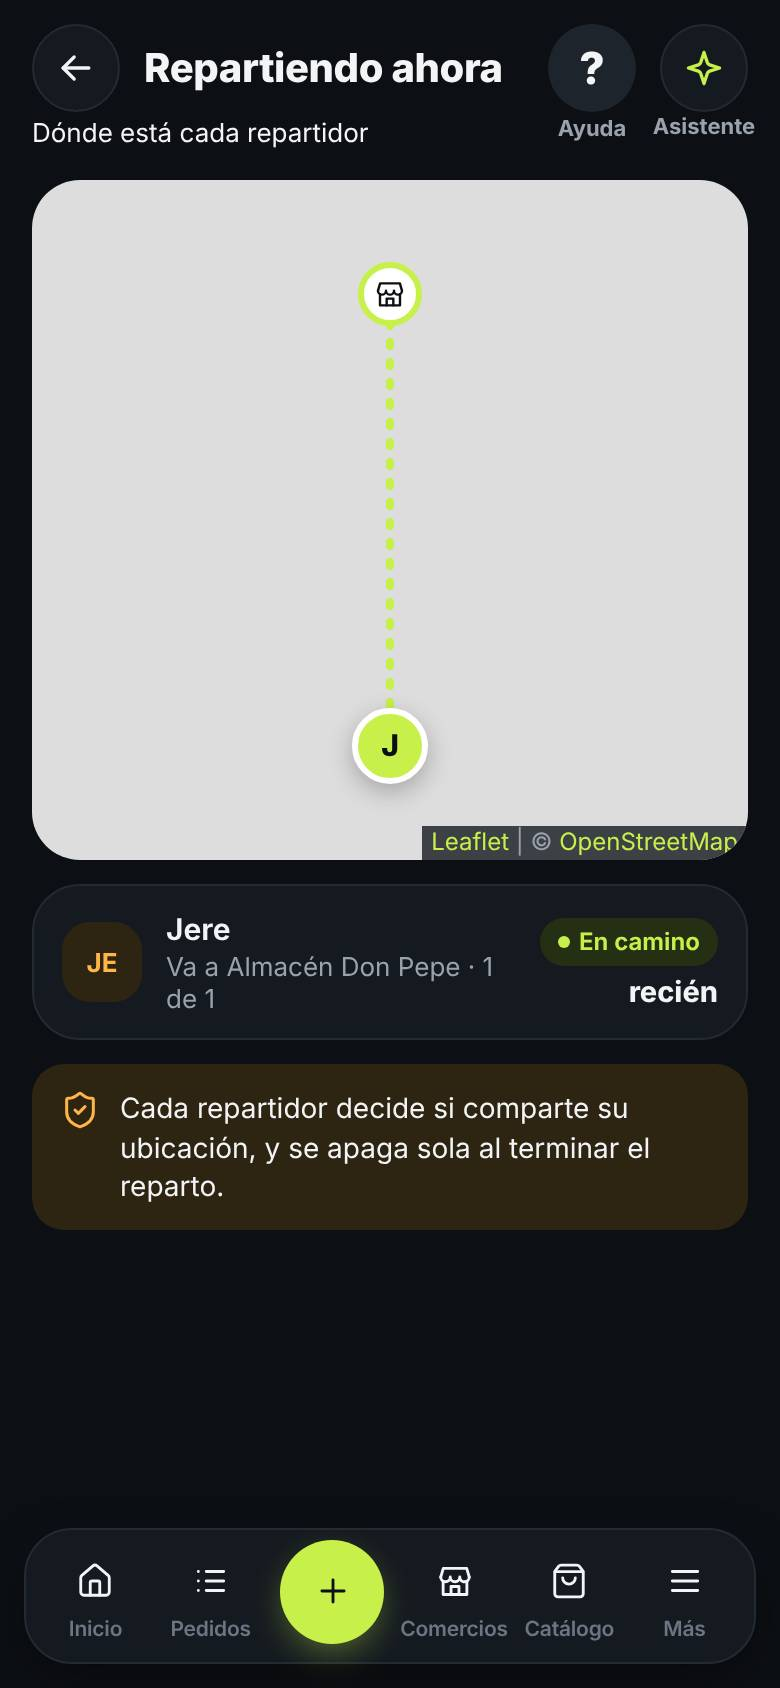
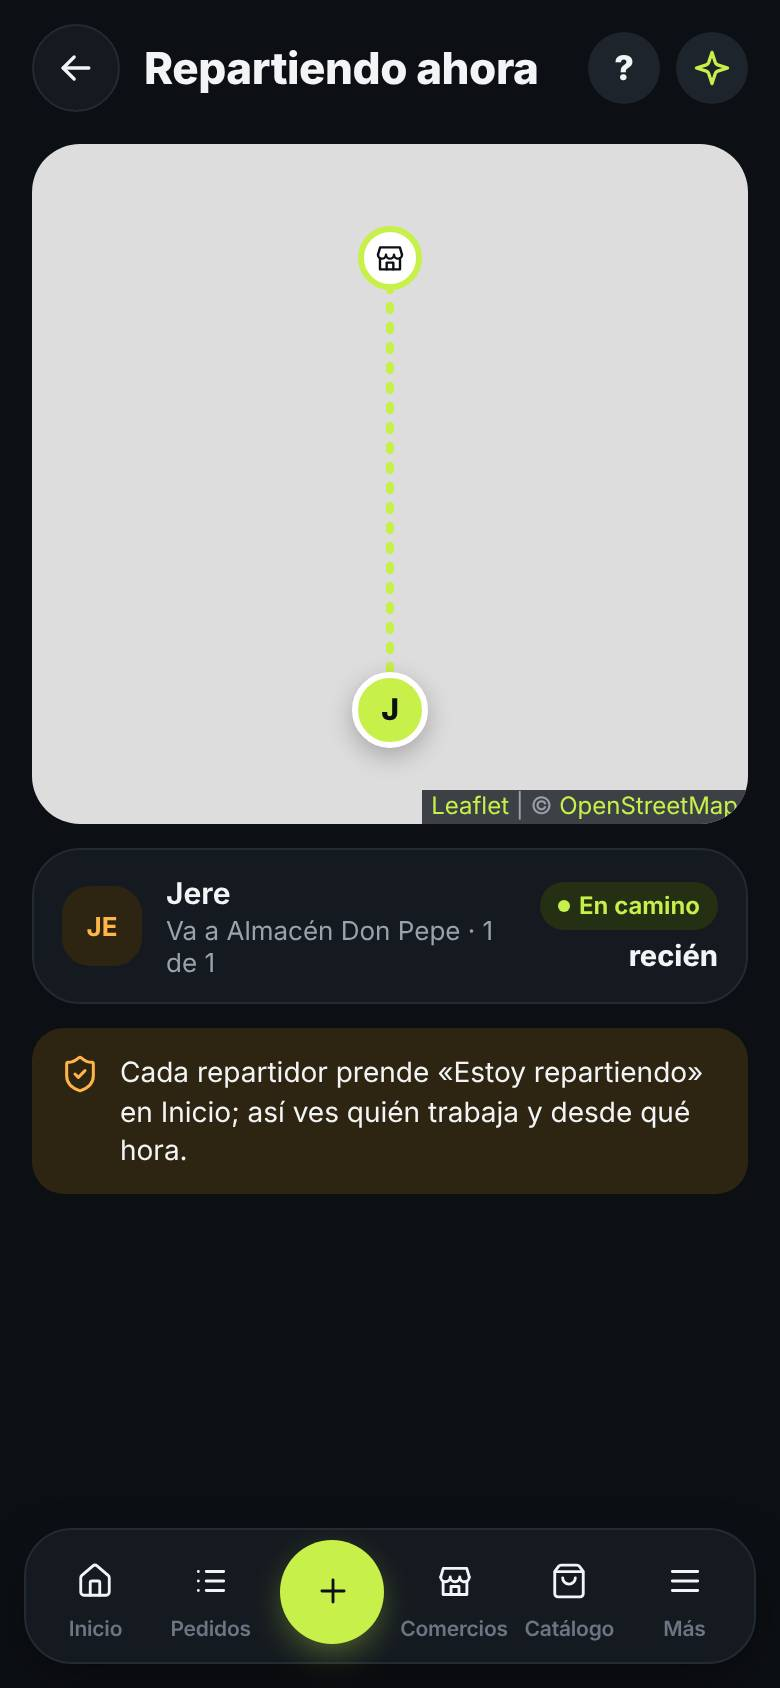
Inicio: switch Repartiendo y Cobrado hoy grande
Claude-Session: https://claude.ai/code/session_01VMQLWfXSbFLZnNSF5hPun1

Changed region(s): [[0.0308, 0.0308, 0.9846, 0.7393]]

diff --git a/repartidores.js b/repartidores.js
@@ -1,6 +1,6 @@
 // VendeFrío - Repartidores en el mapa (T73).
-// Cada repartidor decide si comparte su ubicación (aviso en Inicio cuando
-// tiene pedidos En reparto) y se apaga sola al terminar el reparto. El dueño
+// Cada repartidor prende el switch "Estoy repartiendo" arriba en Inicio
+// (Iniciar ruta lo prende solo) y lo apaga a mano o al cerrar la ruta. El dueño
 // ve "Repartiendo ahora": el mapa con cada uno, a dónde va y hace cuánto.
 // En la nube: `ubicaciones/{idPersona}` (solo el dueño las lee).
 (function () {
@@ -9,7 +9,6 @@
     const p = window.piezas;
     const extras = window.extrasVendeFrio;
     const CLAVE = "vendefrio_compartiendo_ubicacion";
-    const CLAVE_NO = "vendefrio_ubicacion_no_hoy";
     const VIGENTE = 20 * 60000;
     const MAXIMO = 12 * 3600000;
 
@@ -69,11 +68,6 @@
         const yo = p.persona();
         if (!yo || !p.refNube()) return;
         const reparto = miReparto();
-        // Se apaga sola: sin pedidos En reparto, terminó el reparto.
-        if (!reparto.enReparto.length) {
-            apagar(true);
-            return;
-        }
         const lat = posicion.coords.latitude, lng = posicion.coords.longitude;
         const movido = window.pruebaEntregaVendeFrio
             ? window.pruebaEntregaVendeFrio.distanciaMetros(lat, lng, ultimaEscritura.lat, ultimaEscritura.lng) : 999;
@@ -90,6 +84,7 @@
             precision: Math.round(Number(posicion.coords.accuracy) || 0),
             destino: destino ? String(destino.nombre || "").slice(0, 120) : "",
             paso,
+            desde: Number((p.lsLeer(CLAVE, null) || {}).desde) || Date.now(),
             hechas: reparto.hechas,
             total: reparto.total,
             horaCelular: Date.now()
@@ -103,7 +98,8 @@
         }, { enableHighAccuracy: true, maximumAge: 15000, timeout: 30000 });
     }
 
-    function activar() {
+    function activar(silencio) {
+        if (compartiendo()) { dibujarAvisos(); return; }
         if (!navigator.geolocation) {
             mostrarToast("Este celular no da la ubicación");
             return;
@@ -111,18 +107,20 @@
         p.lsGuardar(CLAVE, { desde: Date.now() });
         ultimaEscritura = { hora: 0, lat: 0, lng: 0 };
         vigilar();
-        mostrarToast("Compartiendo tu ubicación con el dueño");
+        try { window.appAndroidVendeFrio?.repartiendo?.(true); } catch (error) { console.warn(error); }
+        if (!silencio) mostrarToast("Estás repartiendo: compartís tu ubicación");
         dibujarAvisos();
     }
 
     function apagar(solo) {
         if (vigilancia !== null && navigator.geolocation) navigator.geolocation.clearWatch(vigilancia);
         vigilancia = null;
+        try { window.appAndroidVendeFrio?.repartiendo?.(false); } catch (error) { console.warn(error); }
         const estaba = compartiendo();
         try { localStorage.removeItem(CLAVE); } catch (error) { /* sin espacio */ }
         const yo = p.persona();
         if (yo && p.refNube()) extras.borrar("ubicaciones", yo.idPersona);
-        if (estaba) mostrarToast(solo ? "Terminaste el reparto: dejaste de compartir tu ubicación" : "Dejaste de compartir tu ubicación");
+        if (estaba) mostrarToast(solo ? "Terminaste el reparto: dejaste de compartir tu ubicación" : "Dejaste de repartir");
         dibujarAvisos();
     }
 
@@ -146,7 +144,7 @@
         if (!main.querySelector("#mapaRepartidores")) {
             main.innerHTML = `<div id="mapaRepartidores" class="pzMapa" role="img" aria-label="Mapa con los repartidores"></div>
                 <div class="pzTarjeta pzLista" id="listaRepartidores"></div>
-                <div class="pzNota pzNotaAviso">${p.ico("escudo", 20)}<span>Cada repartidor decide si comparte su ubicación, y se apaga sola al terminar el reparto.</span></div>`;
+                <div class="pzNota pzNotaAviso">${p.ico("escudo", 20)}<span>Cada repartidor prende «Estoy repartiendo» en Inicio; así ves quién trabaja y desde qué hora.</span></div>`;
         }
         p.mostrar(seccion);
         dibujarPantalla();
@@ -233,33 +231,39 @@
             etiqueta: "Ver mapa de quién reparte"
         } : null, "arriba");
 
-        // El repartidor: compartir mientras tiene pedidos En reparto.
-        const reparto = miReparto();
-        if (compartiendo()) {
-            vigilar();
-            p.avisoInicio("avisoCompartirUbicacion", {
-                color: "Ok",
-                icono: "ubicacion",
-                titulo: "Compartiendo tu ubicación",
-                texto: "Se apaga sola al terminar el reparto",
-                boton: "Apagar",
-                claseBoton: "pzBtnSec",
-                alTocar: () => apagar(false)
-            }, "arriba");
-            if (!reparto.enReparto.length) apagar(true);
-            return;
-        }
-        const noHoy = p.lsLeer(CLAVE_NO, 0) >= hoy();
+        // El repartidor: el switch "Estoy repartiendo" arriba en Inicio.
+        p.avisoInicio("avisoCompartirUbicacion", null);
+        dibujarSwitch();
+    }
+
+    // Switch fijo arriba en Inicio: prendido comparte la ubicación (y en
+    // Android muestra la notificación fija de reparto); apagado corta todo.
+    function dibujarSwitch() {
+        const contenedor = document.querySelector("#pantallaMenu .dashboardHeaderTop");
+        let fila = document.getElementById("switchRepartiendo");
         const puedeRepartir = !window.empleadosVendeFrio?.puede || window.empleadosVendeFrio.puede("reparte");
-        p.avisoInicio("avisoCompartirUbicacion", reparto.enReparto.length && !noHoy && puedeRepartir ? {
-            color: "Info",
-            icono: "ubicacion",
-            titulo: "¿Compartís tu ubicación?",
-            texto: "Así el dueño ve dónde va el reparto",
-            boton: "Activar",
-            alTocar: activar,
-            etiqueta: "Activar: compartir mi ubicación"
-        } : null, "arriba");
+        if (!contenedor || !puedeRepartir) { fila?.remove(); return; }
+        if (!fila) {
+            fila = document.createElement("label");
+            fila.id = "switchRepartiendo";
+            fila.className = "switchRepartiendo";
+            fila.innerHTML = `<span>Repartiendo<small></small></span>` +
+                `<input type="checkbox" class="ajLlave" role="switch" aria-label="Estoy repartiendo">`;
+            fila.querySelector("input").addEventListener("change", evento => {
+                if (evento.target.checked) activar(); else apagar(false);
+            });
+        }
+        // Va debajo del nombre de la distribuidora, en lugar del saludo.
+        const nombre = contenedor.querySelector(".inicioDistribuidora");
+        if (fila.previousElementSibling !== nombre) nombre.after(fila);
+        const prendido = compartiendo();
+        if (prendido) vigilar();
+        fila.querySelector("input").checked = prendido;
+        fila.classList.toggle("prendido", prendido);
+        const datos = p.lsLeer(CLAVE, null);
+        fila.querySelector("small").textContent = prendido
+            ? "desde las " + new Date(datos.desde).toLocaleTimeString("es-AR", { hour: "2-digit", minute: "2-digit" })
+            : "apagado";
     }
 
     if (typeof window.actualizarDashboard === "function") {

diff --git a/menu.js b/menu.js
@@ -274,8 +274,7 @@ function dibujarKpisInicio(cuentas, nube, conPlata) {
             { id: "cargados", texto: "Cargados", valor: cuentas.cargadosSemana, accion: "cargadosSemana" },
             { id: "entregados", texto: "Entregados", valor: cuentas.entregadosSemana, accion: "entregadosSemana" }
         ];
-        const cobrado = conPlata && window.cierreVendeFrio?.disponible?.() ? cobradoHoyInicio() : null;
-        if (cobrado !== null) kpis.push({ id: "cobradoHoy", texto: "Cobrado hoy", valor: textoPlataCortoInicio(cobrado), accion: "cobradoHoy" });
+        // "Cobrado hoy" va grande arriba, no en un cuadrito.
         kpis.push(
             { id: "cargadosHoy", texto: "Cargados hoy", valor: cuentas.cargadosHoy.length, accion: "cargadosHoy" },
             { id: "entregadosHoy", texto: "Entregados hoy", valor: cuentas.entregadosHoy, accion: "entregadosHoy" },
@@ -672,12 +671,15 @@ function actualizarDashboard() {
     // T93: sin permiso para ver la plata, unidades en vez de pesos.
     const vePlata = window.verPlataVendeFrio?.puedoVer?.() !== false;
     const conPlata = vePlata && (hayPrecios || nube);
+    // Lo grande es "Cobrado hoy": un pedido cargado todavía no es plata.
+    // Lo vendido queda chico debajo.
+    const cobradoGrande = conPlata && window.cierreVendeFrio?.disponible?.() ? cobradoHoyInicio() : null;
     const textos = {
-        dashTituloHoy: conPlata ? "Vendido hoy" : "Unidades hoy",
-        dashVendidoHoy: conPlata
+        dashTituloHoy: cobradoGrande !== null ? "Cobrado hoy" : conPlata ? "Vendido hoy" : "Unidades hoy",
+        dashVendidoHoy: cobradoGrande !== null ? textoPlataInicio(cobradoGrande) : conPlata
             ? textoPlataInicio(vendido)
             : String(cargadosHoy.reduce((total, pedido) => total + unidadesInicio(pedido), 0)) + " u",
-        dashResumenHoy: cargadosHoy.length + (cargadosHoy.length === 1 ? " pedido" : " pedidos") + " · " +
+        dashResumenHoy: (cobradoGrande !== null ? "Vendido " + textoPlataCortoInicio(vendido) + " · " : "") + cargadosHoy.length + (cargadosHoy.length === 1 ? " pedido" : " pedidos") + " · " +
             comerciosHoy + (comerciosHoy === 1 ? " comercio" : " comercios"),
         dashVisitasHechas: visitadosSemana,
         dashVisitasTotal: "de " + comercios.length,
@@ -1025,7 +1027,7 @@ function prepararTarjetasDashboard() {
     // comercios visitados" a la lista de los visitados.
     const tocable = window.piezas && window.piezas.tocable;
     if (!tocable) return;
-    tocable(document.getElementById("dashHoyVendido"), () => ejecutarAccionTarjetaDashboard("vendidoHoy"));
+    tocable(document.getElementById("dashHoyVendido"), () => ejecutarAccionTarjetaDashboard(document.getElementById("dashTituloHoy")?.textContent === "Cobrado hoy" ? "cobradoHoy" : "vendidoHoy"));
     tocable(document.getElementById("dashSemanaVisitados"), () => ejecutarAccionTarjetaDashboard("visitadosSemana"));
     // La barra dice "Visitados", así que lleva a los visitados; "Te deben", a A cobrar.
     document.getElementById("dashVisitas")?.addEventListener("click", () => ejecutarAccionTarjetaDashboard("visitadosSemana"));

diff --git a/pruebas/reparto.prueba.js b/pruebas/reparto.prueba.js
@@ -108,7 +108,7 @@ test("reparto: ya llego por WhatsApp y repartidores en el mapa", async ({ page }
     await parada.evaluate(el => el.scrollIntoView({ block: "center" }));
     await capturar(page, "reparto-04-ya-llego");
 
-    // Un pedido En reparto: el aviso para compartir la ubicación.
+    // Un pedido En reparto: el switch "Estoy repartiendo" arriba en Inicio.
     await cargarPedido(page, false);
     const ficha = await abrirPedido(page);
     await ficha.getByRole("button", { name: "Más opciones" }).click();
@@ -117,10 +117,13 @@ test("reparto: ya llego por WhatsApp y repartidores en el mapa", async ({ page }
     await ficha.getByRole("button", { name: "Cerrar", exact: true }).click();
     await expect(ficha).toBeHidden();
     await page.locator(".bottom-nav").getByRole("button", { name: "Inicio" }).click();
-    const compartir = page.locator("#avisoCompartirUbicacion");
-    await expect(compartir).toContainText("¿Compartís tu ubicación?");
-    await compartir.getByRole("button", { name: "Activar: compartir mi ubicación" }).click();
-    await expect(compartir).toContainText("Compartiendo tu ubicación");
+    const compartir = page.locator("#switchRepartiendo");
+    const llave = compartir.getByRole("switch", { name: "Estoy repartiendo" });
+    await expect(llave).not.toBeChecked();
+    await capturar(page, "inicio-switch-apagado");
+    await llave.check();
+    await expect(llave).toBeChecked();
+    await capturar(page, "inicio-switch-prendido");
 
     // El dueño (acá, el mismo) ve "Repartiendo ahora".
     const aviso = page.locator("#avisoRepartiendo");
@@ -134,12 +137,15 @@ test("reparto: ya llego por WhatsApp y repartidores en el mapa", async ({ page }
     await expect(pantalla.locator(".pinRepartidorCabeza")).toHaveCount(1);
     await capturar(page, "reparto-05-repartiendo-ahora");
 
-    // Al entregar el último, se apaga sola.
+    // Al entregar el último sigue prendido: se apaga a mano con el switch.
     await page.evaluate(() => {
         const pedido = obtenerHistorial().find(p => p.comercio === "Almacén Don Pepe");
         window.nubeVendeFrio.entregarPedido(pedido.id, {});
         actualizarDashboard();
     });
-    await expect(page.locator("#avisoCompartirUbicacion")).toHaveCount(0);
+    await expect.poll(() => page.evaluate(() => window.repartidoresVendeFrio.compartiendo())).toBe(true);
+    await pantalla.getByRole("button", { name: /Volver|Atrás/ }).first().click().catch(() => page.goBack());
+    await page.locator(".bottom-nav").getByRole("button", { name: "Inicio" }).click();
+    await page.locator("#switchRepartiendo").getByRole("switch").uncheck();
     await expect.poll(() => page.evaluate(() => window.repartidoresVendeFrio.compartiendo())).toBe(false);
 });

diff --git a/styles.css b/styles.css
@@ -2519,3 +2519,10 @@ html[data-tema] .inicioContenido .inicioEncabezado h2{margin:0;font-size:22px;}
 .contadorCobroTanda{color:var(--acento-oscuro);font-size:14px;font-weight:800;}
 .terminarCobroTanda{min-height:36px;padding:0 14px;border:1px solid var(--acento);border-radius:var(--radio-pildora);background:transparent;color:var(--acento-oscuro);font-size:13px;font-weight:700;cursor:pointer;}
 .terminarCobroTanda:active{background:var(--fondo);}
+
+/* Switch "Estoy repartiendo" arriba en Inicio */
+.switchRepartiendo { display: flex; align-items: center; gap: 8px; width: max-content; margin-top: 2px; padding: 3px 5px 3px 10px; gap: 6px; border-radius: 999px; background: rgba(255,255,255,.16); color: inherit; cursor: pointer; flex: none; }
+.switchRepartiendo > span { display: flex; flex-direction: column; font-weight: 700; font-size: 13px; line-height: 1.15; }
+.switchRepartiendo small { display: none; }
+.dashboardMarca:has(#switchRepartiendo) #dashSaludo { display: none; }
+.switchRepartiendo .ajLlave { flex: none; margin: 0; }

diff --git a/rutas.js b/rutas.js
@@ -2400,6 +2400,8 @@ function empezarRutaEnCurso() {
         planMetros: Math.round(cuenta.metros),
         nombre: rutaGuardadaActual?.nombre || ""
     });
+    // Iniciar ruta prende "Estoy repartiendo" (Inicio).
+    window.repartidoresVendeFrio?.activar?.(true);
 }
 
 function datosCierreRuta() {
@@ -2516,6 +2518,10 @@ function guardarCierreRuta(datos) {
     });
     guardarJsonRutas(CLAVE_RUTAS_HECHAS, lista.slice(-60));
     guardarJsonRutas(CLAVE_RUTA_EN_CURSO, null);
+    if (window.repartidoresVendeFrio?.compartiendo?.()) {
+        window.piezas.preguntar({ icono: "camion", titulo: "¿Dejás de repartir?", texto: "Se apaga «Estoy repartiendo» y se deja de compartir tu ubicación.", si: "Sí, apagar", no: "Sigo repartiendo" })
+            .then(si => { if (si) window.repartidoresVendeFrio.apagar(false); });
+    }
 }
 
 window.rutasVendeFrio = {

diff --git a/pruebas/nubeRapida.prueba.js b/pruebas/nubeRapida.prueba.js
@@ -95,7 +95,7 @@ test("nube rápida: un pedido viejo se cobra sin señal y no se pierde", async (
     await irAInicio(page);
     await expect(page.locator("#avisoSinSubir")).toContainText("1 cambio sin subir", { timeout: 30000 });
     // El cobro de hoy (de un pedido viejo) cuenta en «Cobrado hoy».
-    await expect(page.locator('.kpiHoy[data-kpi="cobradoHoy"]')).toContainText("9.800");
+    await expect(page.locator("#dashVendidoHoy")).toContainText("9.800");
     await page.evaluate(() => window.scrollTo(0, 0));
     await capturar(page, "nubeRapida-01-cobro-viejo-sin-subir");
     expect((await refPedidos.doc("ped_viejoPrueba").get()).data().cobro).toBeFalsy();

diff --git a/sw.js b/sw.js
@@ -1,7 +1,7 @@
 // =====================================================
 // VendeFrío - Service Worker (v164 - Estilo nuevo)
 // =====================================================
-const CACHE_NAME = "vendefrio-v293";
+const CACHE_NAME = "vendefrio-v294";
 const ARCHIVOS = [
   "./",
   "./index.html",

diff --git a/PROJECT_STATE.md b/PROJECT_STATE.md
@@ -1275,3 +1275,4 @@ Una línea por sesión: fecha, quién trabajó, qué cambió, qué quedó pendie
 - 2026-11-05 — Claude Code (hilo «Arreglar la lentitud de la nube», pedido del dueño, sin cambio visual, caché v282): medido con 3000 pedidos y 1000 comercios (celular 6 veces más lento). Pedidos en vivo solo de los últimos 60 días y los viejos leídos una vez; los cambios de un pedido se ven al instante (5,6 s → 0,03 s); Saldos y Cierre leen sin copiar todos los pedidos. Sin juntar cambios con espera (no ahorra y arriesga perder lo último). Arreglo de paso: «Cobrado hoy» de Inicio daba siempre $ 0 (`menu.js` le pasaba la fecha entera a `cierreVendeFrio.calcular`). Prueba nueva `nubeRapida.prueba.js`. Suite completa: 239 pasaron; fallan 7 pruebas por proyecto que ya fallaban en `desarrollo` sin estos cambios (alineados ×2, errores, mejoras, pantallas, raros, vender) y `plata` falló una vez y pasó al repetirla. Falta que el dueño lo pruebe en su celular.
 - 2026-11-05 — Claude Code (hilo Catálogo, aprobado por el dueño, caché v283): ficha de la marca para estudiar el mercado (`estudioDeMarca` y `lecturaDeMarca` en productosAdmin.js, reemplazan `numerosDelMesDeMarca`). Seis números (vendido este mes, % de tus ventas, vs. mes pasado al mismo día, unidades, comercios que la compran de los activos en 60 días, último pedido), «Lo que dicen los números», productos por ventas de 30 días con barrita y «Sin ventas en 30 días», quién la compra más (90 días), para ofrecérsela y contra tus otras marcas. Sin permiso de plata, en unidades. Se abre también desde Catálogo con una marca elegida («Ver ficha de …»). Prueba nueva `marcaFicha.prueba.js`.
 - 2026-11-05 — Claude Code (hilo «Ajustes», tandas 4 y 6 del informe, aprobadas por el dueño, caché v289): Ajustes más simple. Fila cerrada «Avanzado» en Preferencias (probar asistente) y Datos y respaldo (copia interna, datos viejos); Recorrido con vehículo y voz a la vista y el resto en «Más opciones»; Cuenta con una sola línea de estado de la nube; «Juntar repetidos» pasó a Datos y respaldo; textos cortos en Avisos, Empleados y Seguridad; sin «Vercel» a la vista; títulos que se achican antes de cortarse.
+- 2026-11-05 — Claude Code (hilo Inicio, pedido del dueño, caché v294): switch «Repartiendo» arriba en Inicio, debajo del nombre de la distribuidora (`repartidores.js`, `dibujarSwitch`). Prendido comparte la ubicación y llama `appAndroidVendeFrio.repartiendo(true)` (notificación fija en Android); apagado corta todo. Ya no se apaga solo al entregar el último pedido: Iniciar ruta lo prende y al cerrar la ruta pregunta «¿Dejás de repartir?». La ubicación guarda `desde` (para ver horas trabajadas más adelante). Número grande de Inicio: «Cobrado hoy» con «Vendido $ … · N pedidos» chico debajo; sale el cuadrito «Cobrado hoy». Pruebas: reparto, nubeRapida, inicio.
